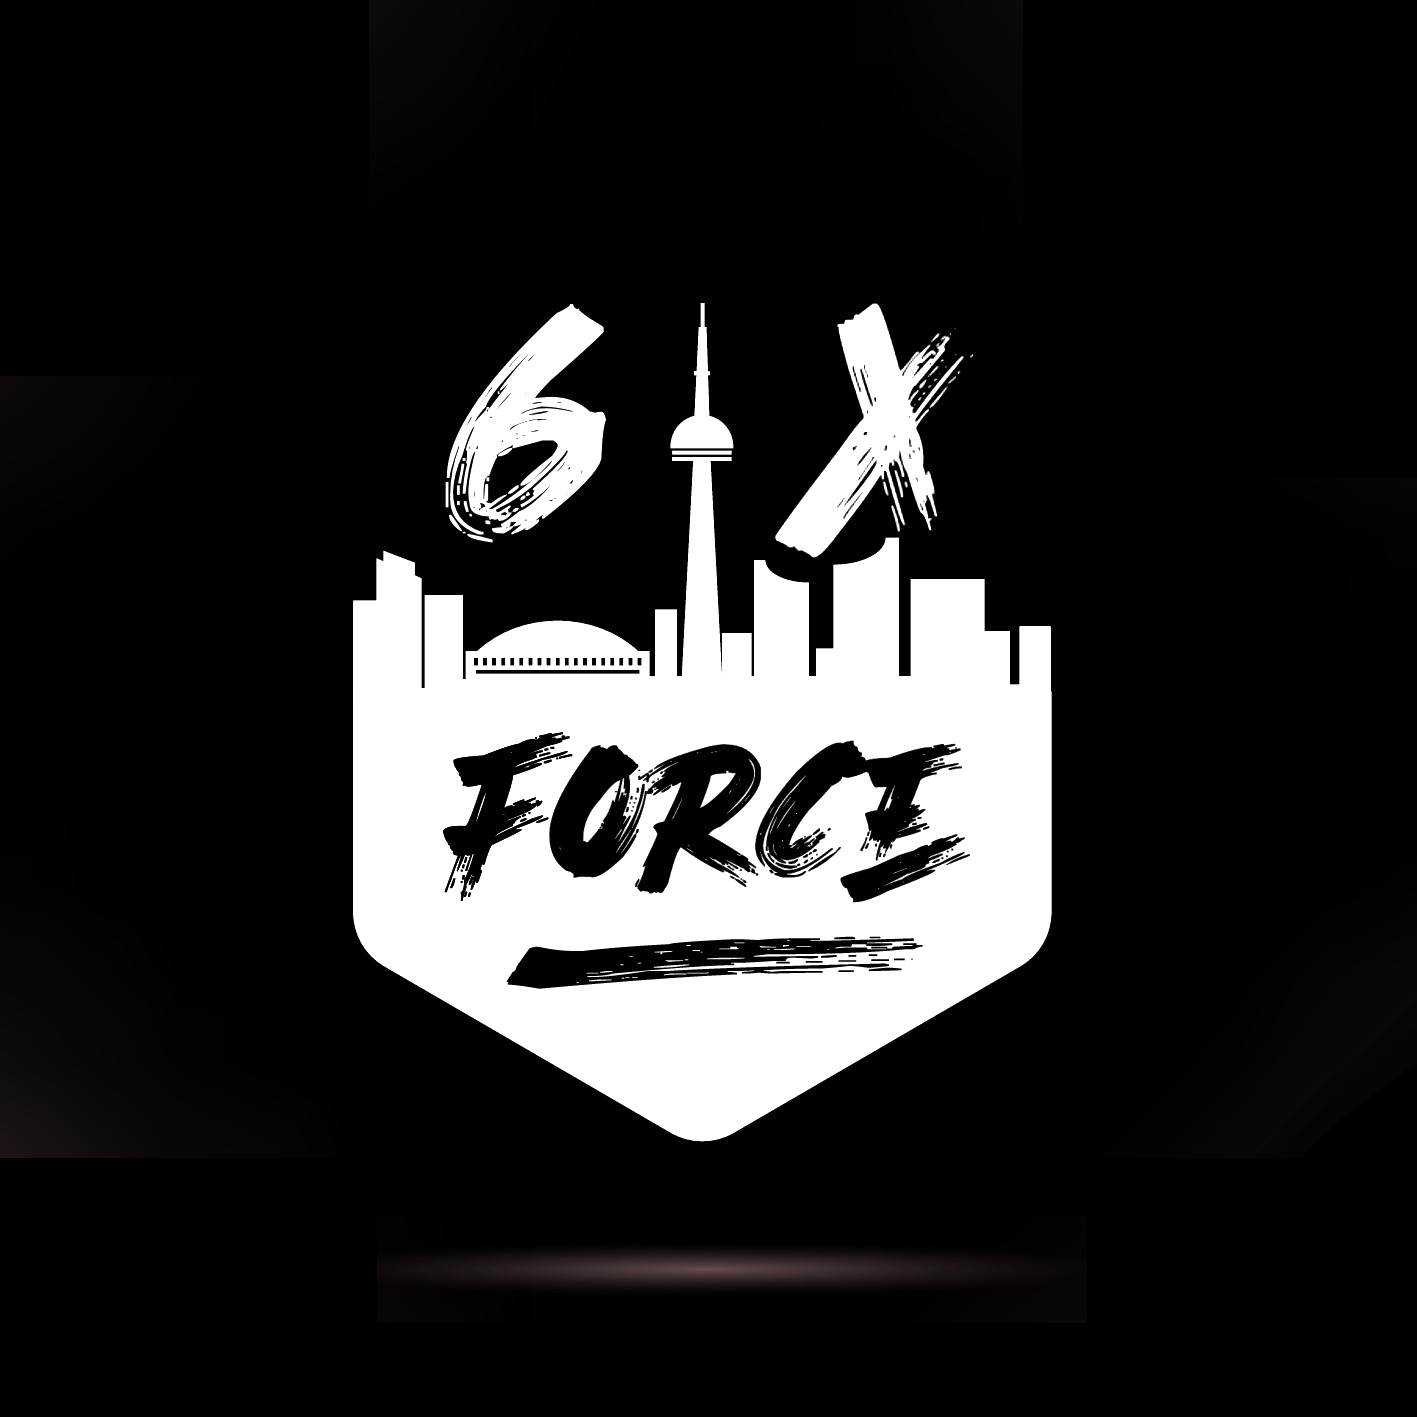
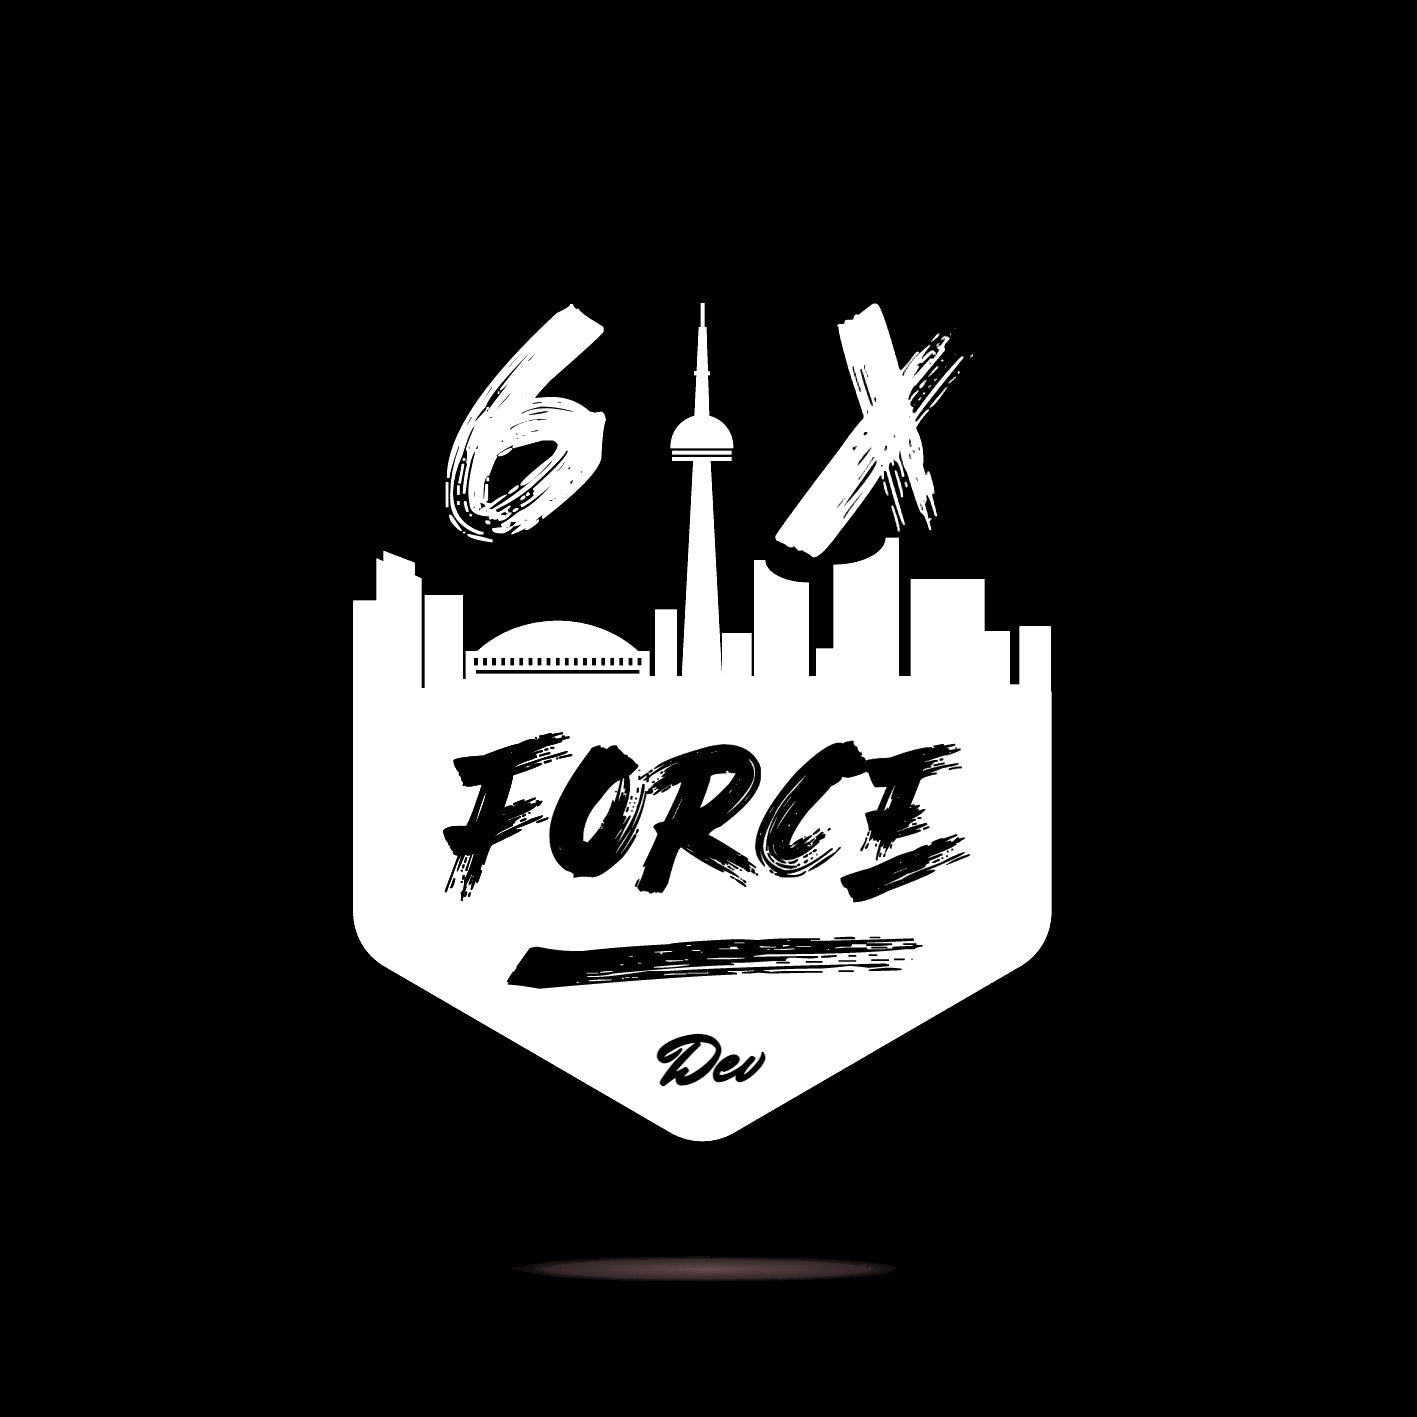
dev

Changed region(s): [[0.3105, 0.8694, 0.6831, 0.9315], [0.4658, 0.7142, 0.5589, 0.7763], [0.0, 0.8073, 0.0311, 0.8384]]

diff --git a/intro.html b/intro.html
@@ -14,7 +14,7 @@
 <div class="main">
 	<h1 class="title">6iX FORCE</h1>
 	<h2 class="subtitile">/ s ɪ k s · f ɔ ː r s /</h2>
-	<p>Turn Your Dreams Into Reality.<br>Our #1 Weapon is Creativity.<br>Softwares in Innovation.</p>
+	<p>Turn Your Dreams Into Reality<br>Our #1 Weapon is Creativity<br>Softwares in Innovation</p>
 	<p><a href="#">contact us</a></p>
 </div>
 <!-- partial -->

diff --git a/css/style.css b/css/style.css
@@ -44,6 +44,17 @@ body, html {
   font-size: 7em;
   margin: 0;
 }
+
+.title::after{
+  content: 'DEV';
+  font-size: 20px;
+  position:absolute;
+  top: 3px;
+  padding-left: 5px;
+  font-weight: 400;
+}
+
+
 .main .subtitile {
   font-size: 1.2em;
   margin: 0;
@@ -59,3 +70,4 @@ body, html {
   color: #555;
   text-decoration: underline;
 }
+
